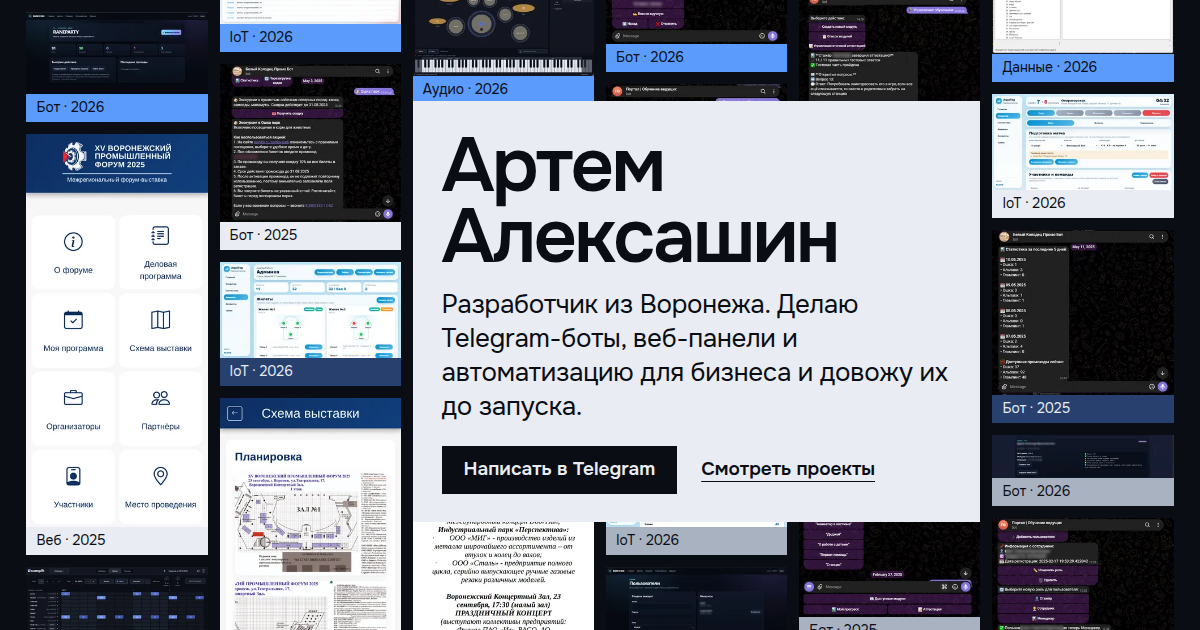
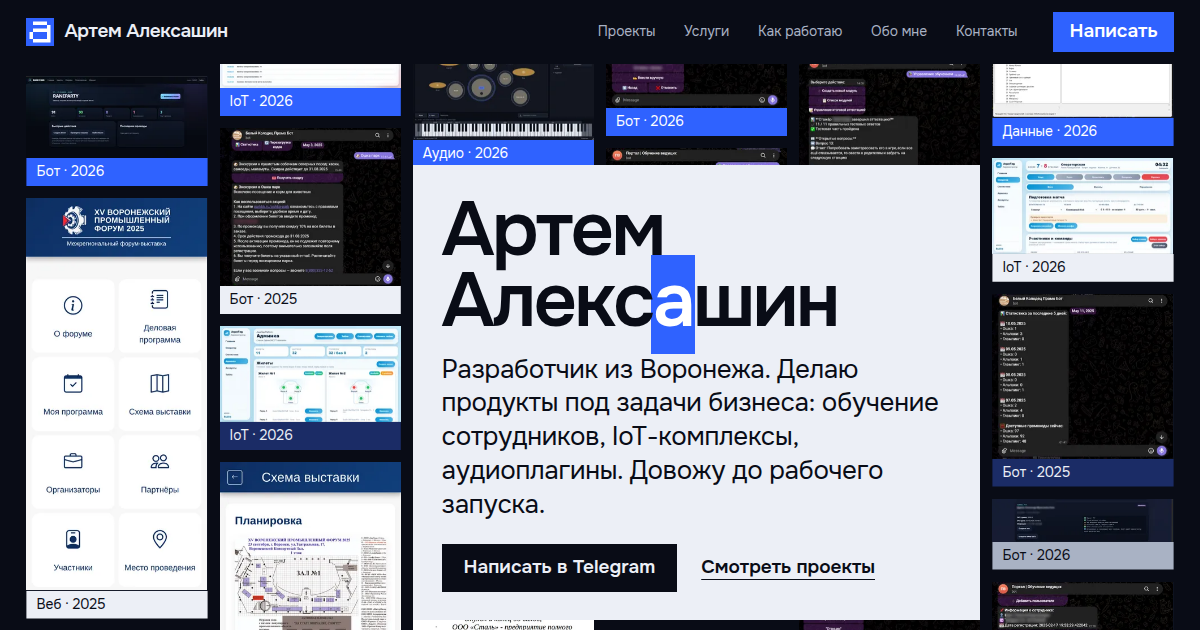
Знак «Пиксель», палитра «Кобальт», выделенная «а» в имени, без стены плиток на телефоне
- Фавиконы (svg, ico 16/32/48, apple-touch-icon), знак в шапке, новый og.png
- Прежние цвета остаются запасной палитрой: ?palette=classic
- Акцент цветом текста на тёмном через --accent-text (контраст AA)
- Плитки hero грузятся лениво: на телефоне они скрыты и больше не качаются
- Новый текст hero: продукты под задачи бизнеса, robots.txt

diff --git a/src/styles/global.css b/src/styles/global.css
@@ -1,24 +1,25 @@
 @import '@fontsource-variable/onest';
 
 :root {
-  /* Палитра: ночь и васильковый */
-  --bg: #0a0d14;
-  --surface: #131824;
-  --surface-2: #1b2233;
-  --ink: #e9edf3;
-  --muted: #a9b2c1;
-  --accent: #5a9bfc;
-  --accent-ink: #0a0d14;
-  /* «Бумага»: светлые листы (прайс) на тёмном поле */
-  --paper: #e9edf3;
-  --paper-ink: #0a0d14;
+  /* Палитра «Кобальт»: основная, в цвет знака */
+  --bg: #090c16;
+  --surface: #121726;
+  --surface-2: #1a2136;
+  --ink: #eceff6;
+  --muted: #a9b2c4;
+  --accent: #2f62ff;       /* заливки: кнопки, выделение, знак */
+  --accent-ink: #ffffff;   /* текст на заливке акцента */
+  --accent-text: #6d92ff;  /* акцент цветом текста на тёмном (контраст 6.7) */
+  /* «Бумага»: светлые листы (прайс, карточка hero) на тёмном поле */
+  --paper: #f1f3f8;
+  --paper-ink: #090c16;
   --paper-muted: #48526a;
-  --paper-accent: #1f5fcc;
+  --paper-accent: #2452e0;
   /* полоски на кадрах: четыре значения по кругу */
-  --s1: #5a9bfc; --s1-ink: #0a0d14;
-  --s2: #e9edf3; --s2-ink: #0a0d14;
-  --s3: #27406e; --s3-ink: #e9edf3;
-  --s4: #a9b2c1; --s4-ink: #0a0d14;
+  --s1: #2f62ff; --s1-ink: #ffffff;
+  --s2: #eceff6; --s2-ink: #090c16;
+  --s3: #1b2c66; --s3-ink: #eceff6;
+  --s4: #a9b2c4; --s4-ink: #090c16;
 
   /* Шрифт */
   --font: 'Onest Variable', system-ui, sans-serif;
@@ -35,6 +36,16 @@
   --section: clamp(96px, 12vw, 200px);
   --ease: cubic-bezier(0.2, 0.7, 0.1, 1);
   --bar: 64px; /* высота закреплённой шапки */
+}
+
+/* Запасная палитра «Классика»: прежние цвета сайта. Включается ?palette=classic */
+:root[data-palette='classic'] {
+  --bg: #0a0d14; --surface: #131824; --surface-2: #1b2233;
+  --ink: #e9edf3; --muted: #a9b2c1;
+  --accent: #5a9bfc; --accent-ink: #0a0d14; --accent-text: #5a9bfc;
+  --paper: #e9edf3; --paper-ink: #0a0d14; --paper-muted: #48526a; --paper-accent: #1f5fcc;
+  --s1: #5a9bfc; --s1-ink: #0a0d14; --s2: #e9edf3; --s2-ink: #0a0d14;
+  --s3: #27406e; --s3-ink: #e9edf3; --s4: #a9b2c1; --s4-ink: #0a0d14;
 }
 
 *, *::before, *::after { box-sizing: border-box; }

diff --git a/src/data/profile.ts b/src/data/profile.ts
@@ -4,7 +4,7 @@ export const profile = {
   role: 'Разработчик',
   city: 'Воронеж',
   tagline: 'Боты, веб-панели и автоматизация для бизнеса',
-  lead: 'Разработчик из Воронежа. Делаю Telegram-боты, веб-панели и автоматизацию для бизнеса и довожу их до запуска.',
+  lead: 'Разработчик из Воронежа. Делаю продукты под задачи бизнеса: обучение сотрудников, IoT-комплексы, аудиоплагины. Довожу до рабочего запуска.',
   telegram: { handle: '@sjahmal', url: 'https://t.me/sjahmal' },
   email: 'aleksashin.ar@gmail.com',
   phone: { display: '+7 919 223-74-75', tel: '+79192237475' },
